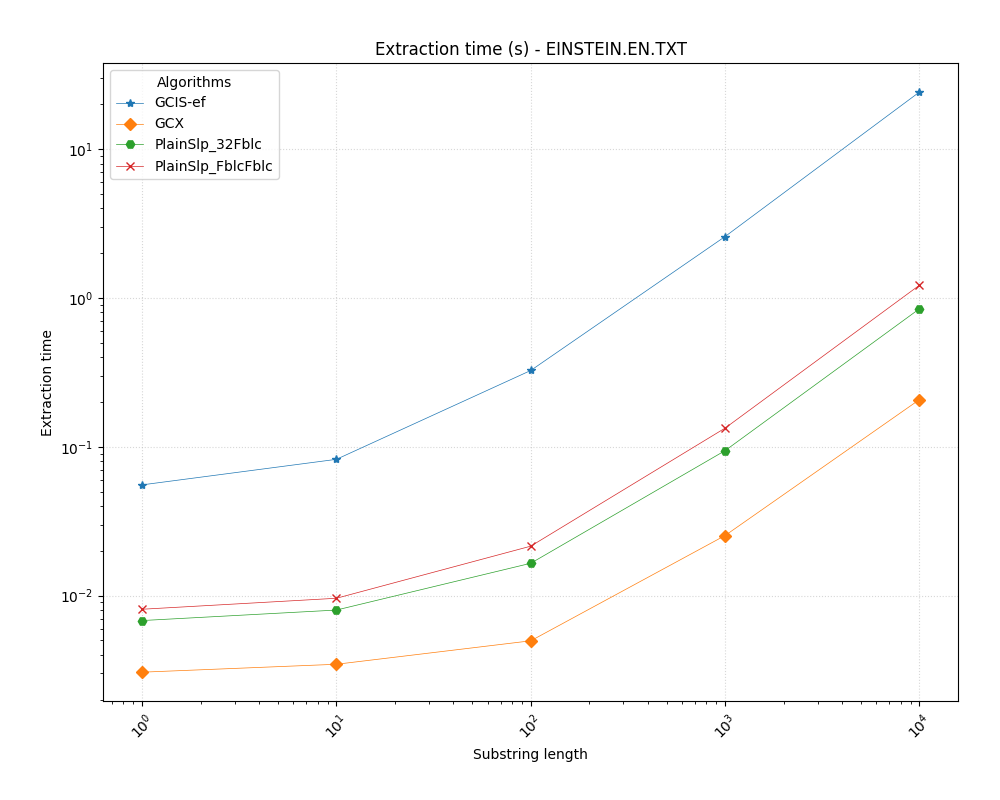
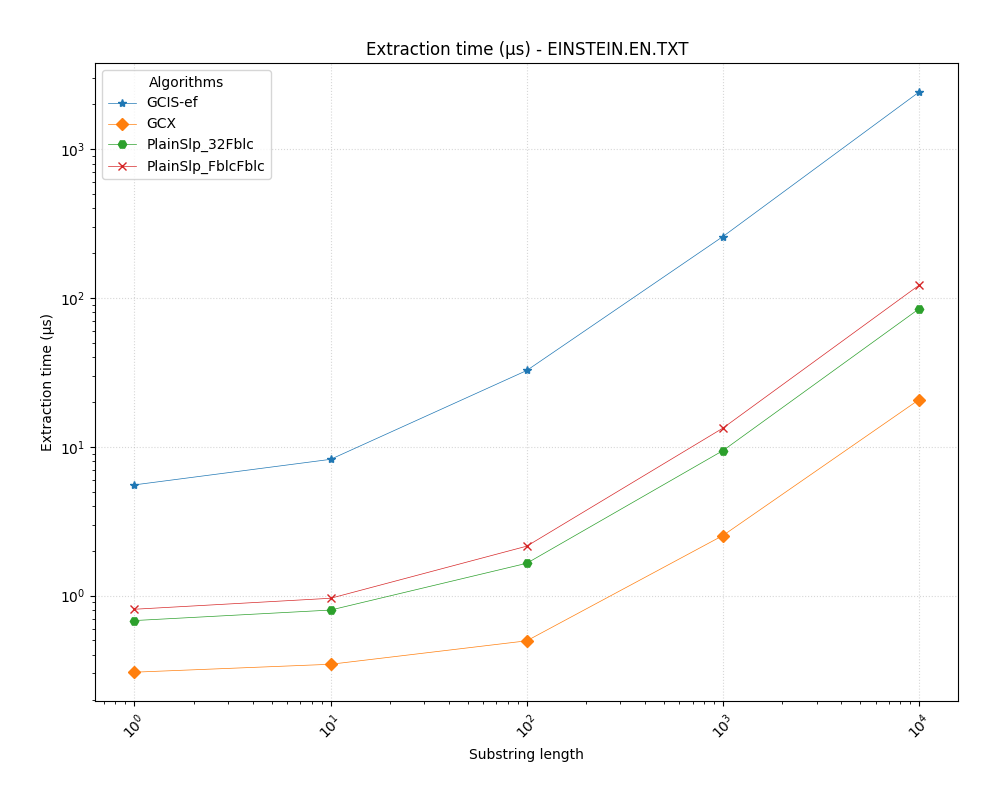
defining time in microseconds and changing DC* algorithm label

diff --git a/scripts/graphs/report.py b/scripts/graphs/report.py
@@ -50,16 +50,19 @@ def set_max_values(values, df):
             if column_max > values[key]:
                 values[key] = column_max
 
-def prepare_dataset(df):
-    plain_size = df['plain_size'][0]
-    #calculate compression rate
-    df['compressed_size'] = df['compressed_size'].apply(lambda x: ut.compute_ratio_percentage(x, plain_size))
-    
-    #convert bytes to MB
-    df['peak_comp'] = df['peak_comp'].apply(lambda x: ut.bytes_to_mb(x))
-    df['peak_decomp'] = df['peak_comp'].apply(lambda x:ut.bytes_to_mb(x))
-    df['stack_comp'] = df['stack_comp'].apply(lambda x:ut.bytes_to_mb(x))
-    df['stack_decomp'] = df['stack_comp'].apply(lambda x:ut.bytes_to_mb(x))
+def prepare_dataset(df, operation):
+    if operation == 'compress':
+        plain_size = df['plain_size'][0]
+        #calculate compression rate
+        df['compressed_size'] = df['compressed_size'].apply(lambda x: ut.compute_ratio_percentage(x, plain_size))
+        
+        #convert bytes to MB
+        df['peak_comp'] = df['peak_comp'].apply(lambda x: ut.bytes_to_mb(x))
+        df['peak_decomp'] = df['peak_comp'].apply(lambda x:ut.bytes_to_mb(x))
+        df['stack_comp'] = df['stack_comp'].apply(lambda x:ut.bytes_to_mb(x))
+        df['stack_decomp'] = df['stack_comp'].apply(lambda x:ut.bytes_to_mb(x))
+    elif operation == 'extract':
+        df['time'] = df['time'].apply(lambda x: (x/10000)*1e6) 
 
 def get_data_frame(path, operation, report):
     files = glob.glob(f"{path}*.csv")
@@ -70,10 +73,11 @@ def get_data_frame(path, operation, report):
         df.set_index('file', inplace=True)
 
         if operation == "compress":
-            prepare_dataset(df)
+            prepare_dataset(df, operation)
             set_max_values(compress_max_values, df)
             set_summary(compression_summary, df)
         elif operation == "extract":
+            prepare_dataset(df, operation)
             set_max_values(extract_values, df)
             set_summary(extract_summary, df)
         df_list.append(df)

diff --git a/scripts/graphs/en.py b/scripts/graphs/en.py
@@ -47,9 +47,9 @@ COMPRESS_AND_DECOMPRESS = {
 EXTRACT = {
     'time': {
         "col": "time",
-        "y_label": "Extraction time",
+        "y_label": "Extraction time (\u03BCs)",
         "x_label": "Substring length",
-        "title": "Extraction time (s)",
+        "title": "Extraction time (\u03BCs)",
         "output_file": "extracting_time",
         "legend":  "Algorithms"
     },
